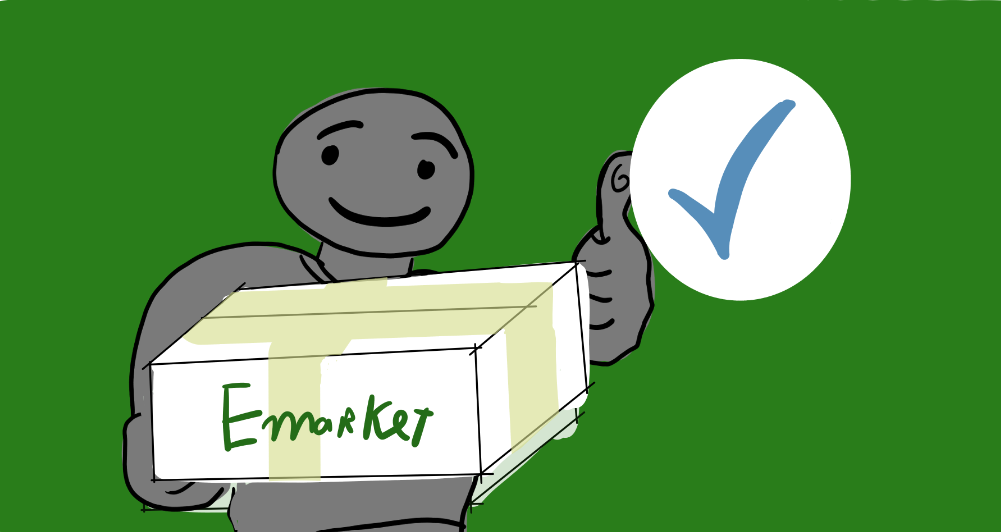
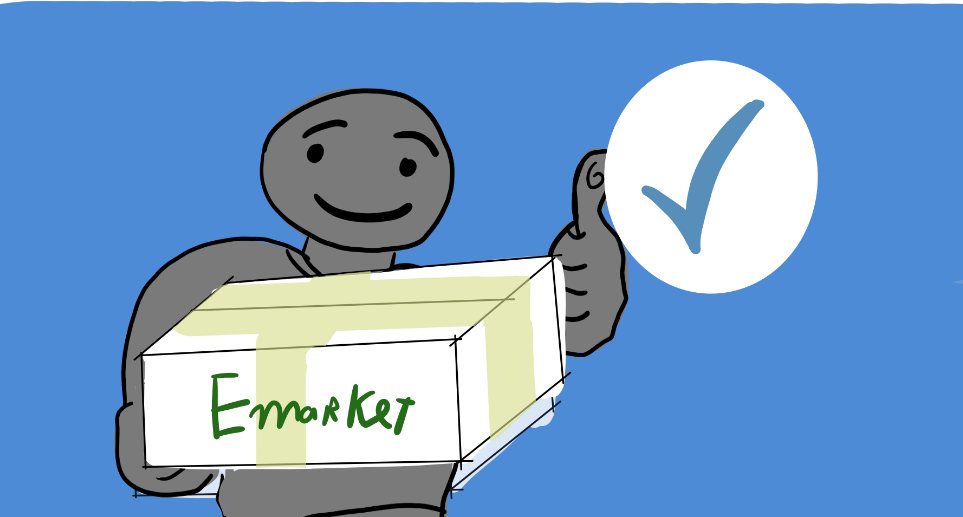
lan2

diff --git a/src/pages/Home.jsx b/src/pages/Home.jsx
@@ -262,15 +262,21 @@ export default function Home({
   onAddressClick,
   onOrderHistoryClick,
   onRegisterClick,
+  selectedCat,
+  setSelectedCat,
+  searchQuery,
+  setSearchQuery,
+  appliedQuery,
+  setAppliedQuery,
 }) {
   const [activeTab, setActiveTab] = useState("home");
-  const [selectedCat, setSelectedCat] = useState("all");
+  //const [selectedCat, setSelectedCat] = useState("all");
   const [showPopup, setShowPopup] = useState(false);
   const [selectedBranch, setSelectedBranch] = useState(null);
   const [cartCount, setCartCount] = useState(2);
   const [bannerIdx, setBannerIdx] = useState(0);
-  const [searchQuery, setSearchQuery] = useState("");
-  const [appliedQuery, setAppliedQuery] = useState("");
+  //const [searchQuery, setSearchQuery] = useState("");
+  //const [appliedQuery, setAppliedQuery] = useState("");
   const [indicatorStyle, setIndicatorStyle] = useState({ left: 0, width: 0 });
   const tabRefs = useRef({});
 

diff --git a/src/App.jsx b/src/App.jsx
@@ -18,6 +18,10 @@ export default function App() {
 
   const [homeScroll, setHomeScroll] = useState(0);
 
+  const [homeCategory, setHomeCategory] = useState("all");
+  const [homeSearch, setHomeSearch] = useState("");
+  const [homeAppliedSearch, setHomeAppliedSearch] = useState("");
+
   const navigateFromHome = (targetPage) => {
     setHomeScroll(window.scrollY); // Lưu lại vị trí đang đứng
     setPage(targetPage); // Chuyển trang
@@ -140,6 +144,12 @@ export default function App() {
     <Home
       user={user}
       savedScroll={homeScroll}
+      selectedCat={homeCategory}
+      setSelectedCat={setHomeCategory}
+      searchQuery={homeSearch}
+      setSearchQuery={setHomeSearch}
+      appliedQuery={homeAppliedSearch}
+      setAppliedQuery={setHomeAppliedSearch}
       onLoginClick={() => navigateFromHome("login")}
       onRegisterClick={() => navigateFromHome("register")}
       onLogout={() => setUser(null)}

diff --git a/src/pages/OrderHistory.jsx b/src/pages/OrderHistory.jsx
@@ -578,7 +578,7 @@ export default function OrderHistory({ onBack }) {
                       gap: "0.6rem",
                     }}
                   >
-                    🚚 {getStatusText(order.status)}
+                     {getStatusText(order.status)}
                   </span>
                 </div>
 